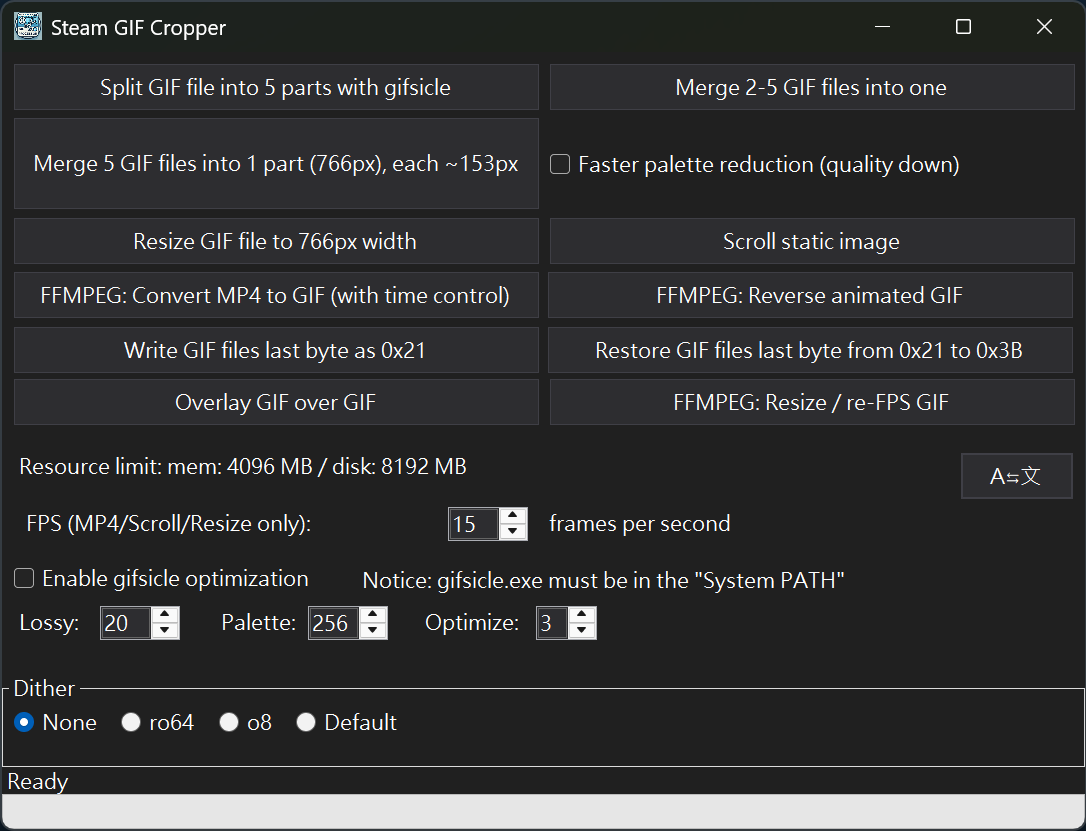
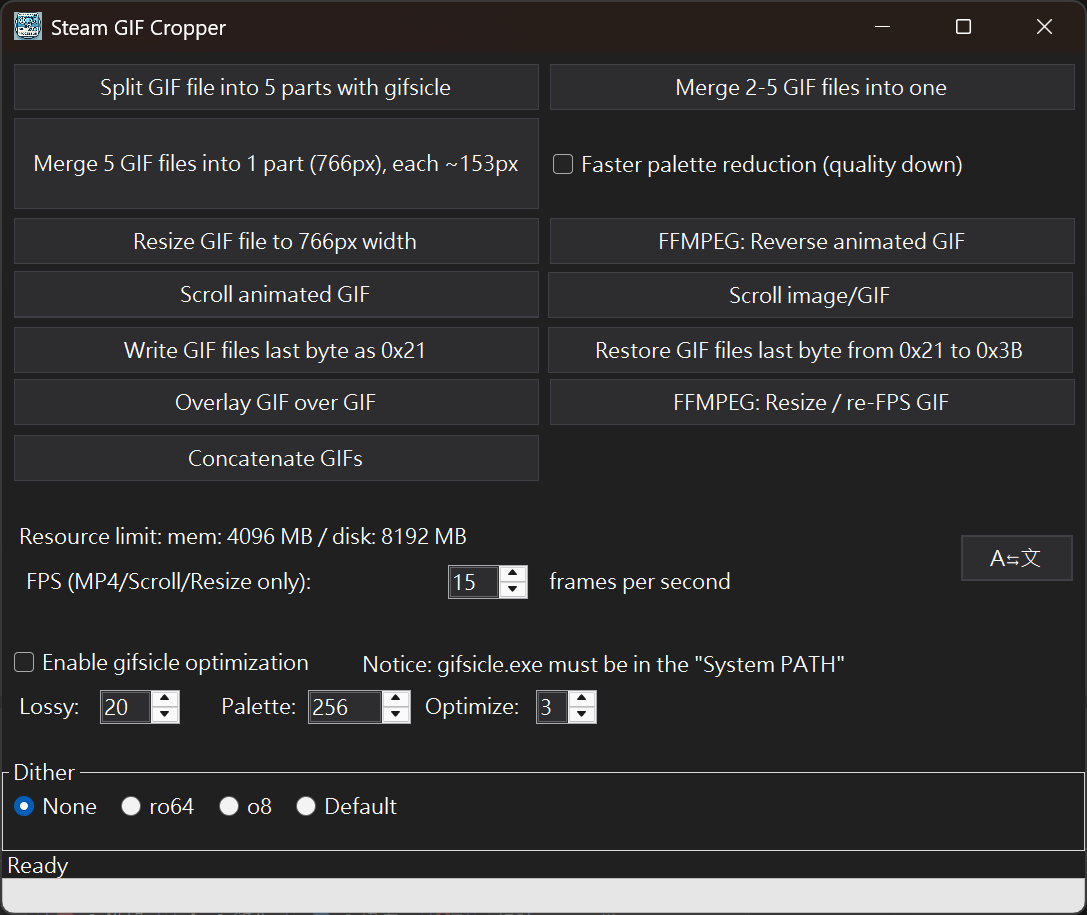
Update multi-lang

diff --git a/GTMainForm.cs b/GTMainForm.cs
@@ -328,6 +328,8 @@ namespace GifProcessorApp
                 {
                     btnResizeNfpsGIF.Text = "FFMPEG: " + btnResizeNfpsGIF.Text;
                 }
+                btnConcatenateGifs.Text = SteamGifCropper.Properties.Resources.GTMainForm_ConcatenateGifs;
+                btnScrollAnimatedGif.Text = SteamGifCropper.Properties.Resources.Button_ScrollAnimatedGif;
                 label1.Text = SteamGifCropper.Properties.Resources.Label_GifsicleNotice;
                 lblFramerate.Text = SteamGifCropper.Properties.Resources.Label_Framerate;
                 lblFPS.Text = SteamGifCropper.Properties.Resources.Label_FPS;
